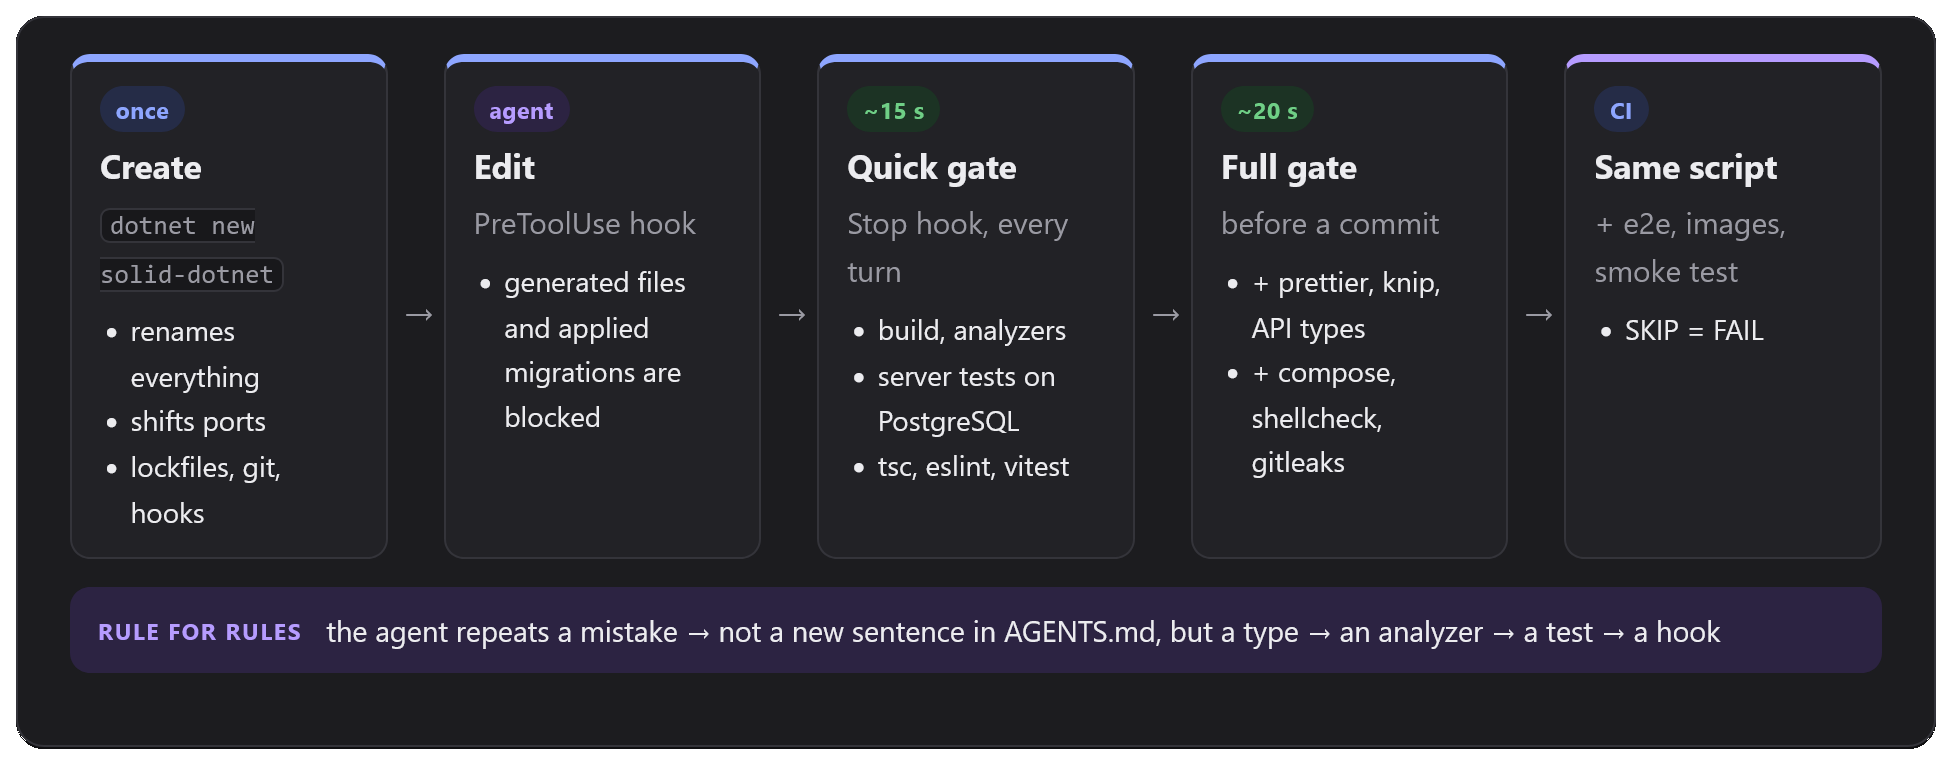
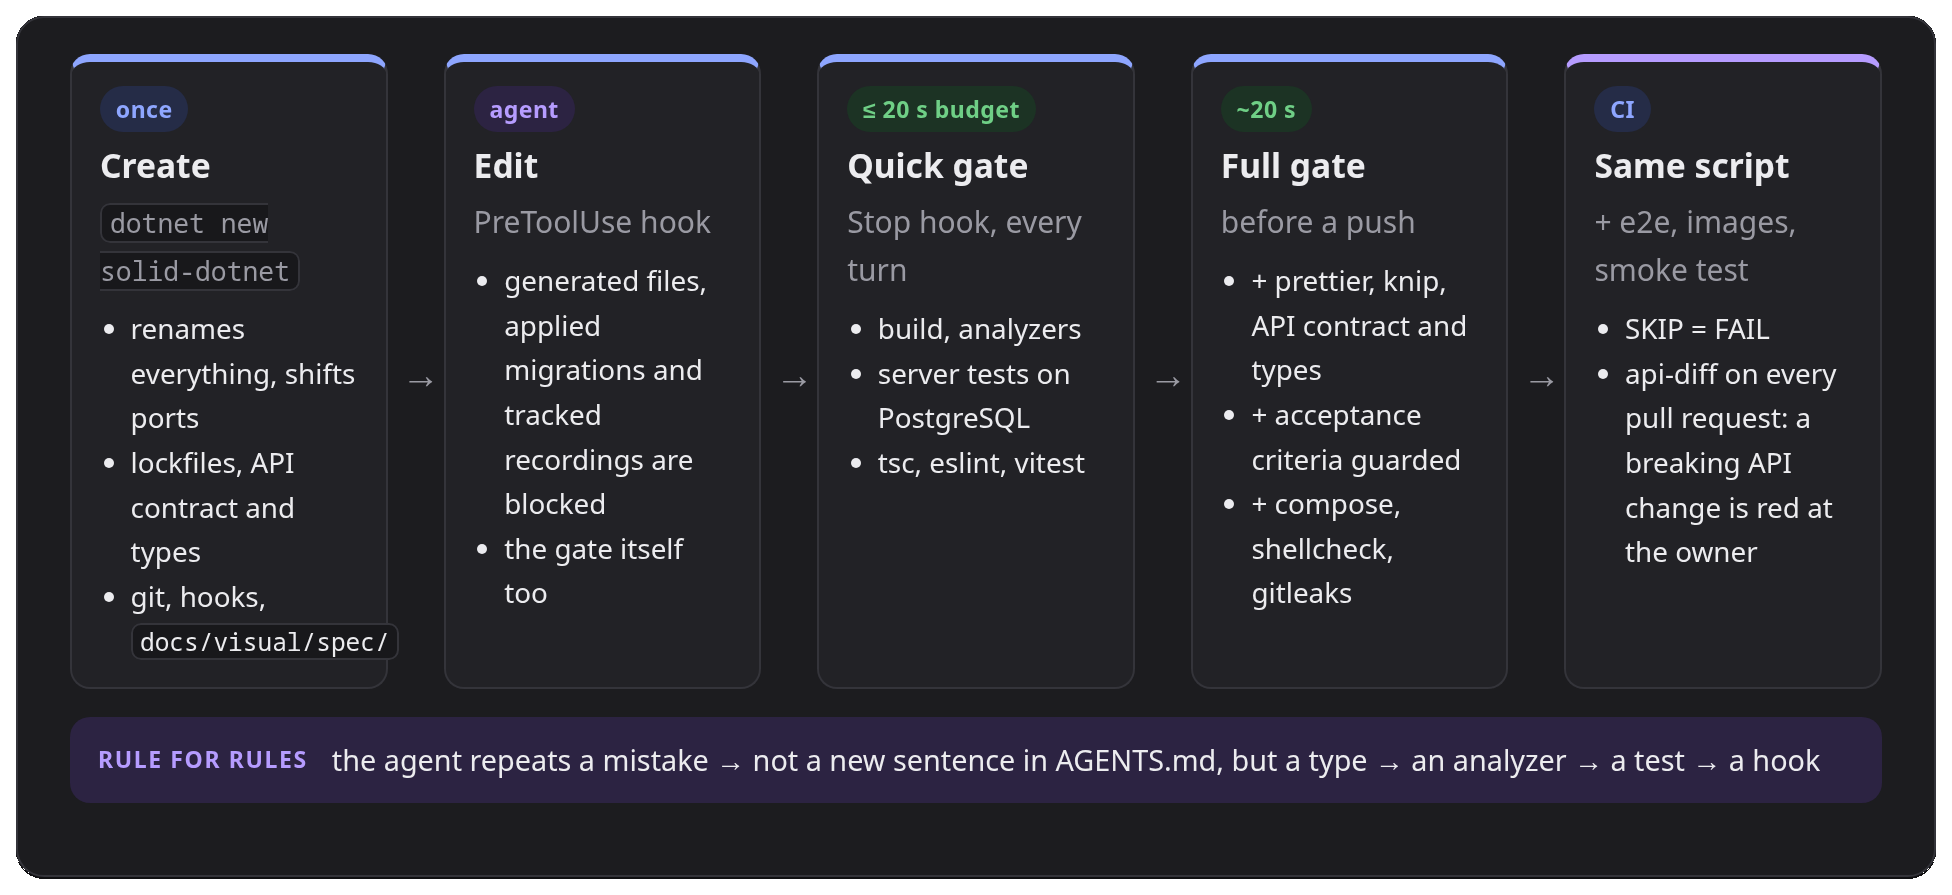
README: the contract, the quick-gate budget and the new commands in the pictures
- flow: create regenerates the contract and types and creates docs/visual/spec; the hook also
  blocks tracked recordings and the gate; quick gate within a 20 s budget; full gate with the
  contract, types and criteria; api-diff on every pull request
- which command when: just api-types then just api-diff, just contracts
- a section on the API contract; the gate paragraph names the budget and the new failures

diff --git a/docs/visual/board/readme.html b/docs/visual/board/readme.html
@@ -405,11 +405,11 @@ pre.out { font: 12px/1.5 var(--mono); background: var(--code-bg); border: 1px so
 
 <section id="flow">
   <div class="flow">
-    <div><span class="tag accent">once</span><h4>Create</h4><p class="when"><code>dotnet new solid-dotnet</code></p><ul><li>renames everything</li><li>shifts ports</li><li>lockfiles, git, hooks</li></ul></div>
-    <div><span class="tag note">agent</span><h4>Edit</h4><p class="when">PreToolUse hook</p><ul><li>generated files and applied migrations are blocked</li></ul></div>
-    <div><span class="tag ok">~15 s</span><h4>Quick gate</h4><p class="when">Stop hook, every turn</p><ul><li>build, analyzers</li><li>server tests on PostgreSQL</li><li>tsc, eslint, vitest</li></ul></div>
-    <div><span class="tag ok">~20 s</span><h4>Full gate</h4><p class="when">before a commit</p><ul><li>+ prettier, knip, API types</li><li>+ compose, shellcheck, gitleaks</li></ul></div>
-    <div class="alt"><span class="tag accent">CI</span><h4>Same script</h4><p class="when">+ e2e, images, smoke test</p><ul><li>SKIP = FAIL</li></ul></div>
+    <div><span class="tag accent">once</span><h4>Create</h4><p class="when"><code>dotnet new solid-dotnet</code></p><ul><li>renames everything, shifts ports</li><li>lockfiles, API contract and types</li><li>git, hooks, <code>docs/visual/spec/</code></li></ul></div>
+    <div><span class="tag note">agent</span><h4>Edit</h4><p class="when">PreToolUse hook</p><ul><li>generated files, applied migrations and tracked recordings are blocked</li><li>the gate itself too</li></ul></div>
+    <div><span class="tag ok">≤ 20 s budget</span><h4>Quick gate</h4><p class="when">Stop hook, every turn</p><ul><li>build, analyzers</li><li>server tests on PostgreSQL</li><li>tsc, eslint, vitest</li></ul></div>
+    <div><span class="tag ok">~20 s</span><h4>Full gate</h4><p class="when">before a push</p><ul><li>+ prettier, knip, API contract and types</li><li>+ acceptance criteria guarded</li><li>+ compose, shellcheck, gitleaks</li></ul></div>
+    <div class="alt"><span class="tag accent">CI</span><h4>Same script</h4><p class="when">+ e2e, images, smoke test</p><ul><li>SKIP = FAIL</li><li>api-diff on every pull request: a breaking API change is red at the owner</li></ul></div>
   </div>
   <div class="strip"><span class="lbl">Rule for rules</span> the agent repeats a mistake → not a new sentence in AGENTS.md, but a type → an analyzer → a test → a hook</div>
 </section>
@@ -432,6 +432,8 @@ pre.out { font: 12px/1.5 var(--mono); background: var(--code-bg); border: 1px so
     <div class="if">Before calling a change done</div><div class="then">check.sh <small>the one definition of "done"</small></div>
     <div class="if">You changed something a user clicks</div><div class="then">e2e.sh <small>Playwright, own database</small></div>
     <div class="if">Something failed and you need to know why</div><div class="then">just logs <small>last errors, one line each; --trace &lt;id&gt;</small></div>
+    <div class="if">You changed a record the API sends or receives</div><div class="then">just api-types, then just api-diff <small>regenerate the contract; does it break a consumer?</small></div>
+    <div class="if">Which tests hang on another repository's contract?</div><div class="then">just contracts <small>tag name@version, no criterion id</small></div>
     <div class="if">You added logic with rules</div><div class="then note">just mutate <small>surviving mutants = weak tests</small></div>
     <div class="if">Prove the containers work</div><div class="then">just up + smoke.sh <small>the stack as it ships</small></div>
   </div>

diff --git a/README.md b/README.md
@@ -32,7 +32,7 @@ cd Invoices && bash scripts/.internal/check.sh
 
 <picture>
   <source media="(prefers-color-scheme: dark)" srcset="docs/visual/board/img/readme/flow-dark.png">
-  <img alt="How work flows. Create once with dotnet new solid-dotnet: it renames everything, shifts ports, regenerates lockfiles, initializes git and hooks. The agent edits; a PreToolUse hook blocks generated files and applied migrations. Quick gate, about 15 seconds, run by the Stop hook every turn: build with analyzers, server tests on PostgreSQL, tsc, eslint, vitest. Full gate, about 20 seconds, before a commit: adds prettier, knip, API types, compose, shellcheck, gitleaks. CI runs the same script plus e2e, images and a smoke test; SKIP counts as FAIL. Rule for rules: when the agent repeats a mistake, add not a sentence to AGENTS.md but a type, an analyzer, a test or a hook." src="docs/visual/board/img/readme/flow-light.png" width="100%">
+  <img alt="How work flows. Create once with dotnet new solid-dotnet: it renames everything, shifts ports, regenerates lockfiles, the API contract and types, initializes git and hooks, creates docs/visual/spec. The agent edits; a PreToolUse hook blocks generated files, applied migrations, tracked recordings and the gate itself. Quick gate, within a 20-second budget, run by the Stop hook every turn: build with analyzers, server tests on PostgreSQL, tsc, eslint, vitest. Full gate, about 20 seconds, before a push: adds prettier, knip, API contract and types, acceptance criteria guarded, compose, shellcheck, gitleaks. CI runs the same script plus e2e, images and a smoke test, and api-diff on every pull request; SKIP counts as FAIL. Rule for rules: when the agent repeats a mistake, add not a sentence to AGENTS.md but a type, an analyzer, a test or a hook." src="docs/visual/board/img/readme/flow-light.png" width="100%">
 </picture>
 
 <picture>
@@ -44,7 +44,7 @@ The full list, each guard with its fix: [docs/architecture.md, "What the gate fo
 
 <picture>
   <source media="(prefers-color-scheme: dark)" srcset="docs/visual/board/img/readme/choose-dark.png">
-  <img alt="Which command when. While working: check.sh --quick, which the Stop hook runs for you. Before calling a change done: check.sh, the one definition of done. You changed something a user clicks: e2e.sh, Playwright with its own database. Something failed and you need to know why: just logs, the last errors one line each, or --trace with a request id. You added logic with rules: just mutate, where surviving mutants mean weak tests. Prove the containers work: just up and smoke.sh, the stack as it ships." src="docs/visual/board/img/readme/choose-light.png" width="100%">
+  <img alt="Which command when. While working: check.sh --quick, which the Stop hook runs for you. Before calling a change done: check.sh, the one definition of done. You changed something a user clicks: e2e.sh, Playwright with its own database. Something failed and you need to know why: just logs, the last errors one line each, or --trace with a request id. You changed a record the API sends or receives: just api-types, then just api-diff to see whether the contract breaks a consumer. Which tests hang on another repository's contract: just contracts. You added logic with rules: just mutate, where surviving mutants mean weak tests. Prove the containers work: just up and smoke.sh, the stack as it ships." src="docs/visual/board/img/readme/choose-light.png" width="100%">
 </picture>
 
 <picture>
@@ -64,12 +64,20 @@ web app with types generated from the server's OpenAPI document, and a Notes fea
 
 ## What the gate guarantees
 
-`bash scripts/.internal/check.sh` (`--quick` while working) fails on: any compiler or analyzer warning, banned
+`bash scripts/.internal/check.sh` (`--quick` while working, within a 20-second budget) fails on: any compiler or analyzer warning, banned
 APIs, a layer used against its order, dead types and packages, vague names, stray comments, `dynamic`, unpinned
-images, stale generated types, an unresolvable compose file. The full list, each with its fix:
+images, a stale API contract or generated types, an acceptance criterion without a guardrail, an unresolvable compose file. The full list, each with its fix:
 [docs/architecture.md, "What the gate forbids"](docs/architecture.md#what-the-gate-forbids).
 Browser tests run separately (`scripts/.internal/e2e.sh`), and `just up` starts the container stack and
 smoke-tests it.
+
+## The API contract
+
+`Myapp.Server/openapi.json` is generated from the endpoints and committed: the contract on the boundary.
+`just api-types` regenerates it with the web types (`openapi.d.ts`, whose first line names the contract's
+sha256), `just api-diff` compares it with `master` and fails on a change that breaks a consumer (oasdiff), and CI
+runs that comparison on every pull request. An app in another repository that adapts to a new version of this
+contract tags its tests with `contract <name>@<version>` instead of a criterion id; `just contracts` lists them.
 
 ## Spec ↔ guardrails sync
 
